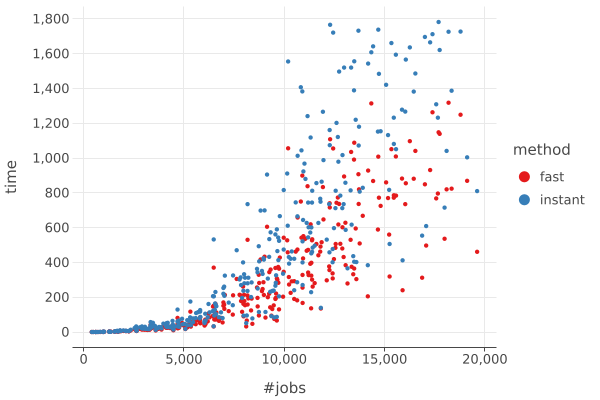
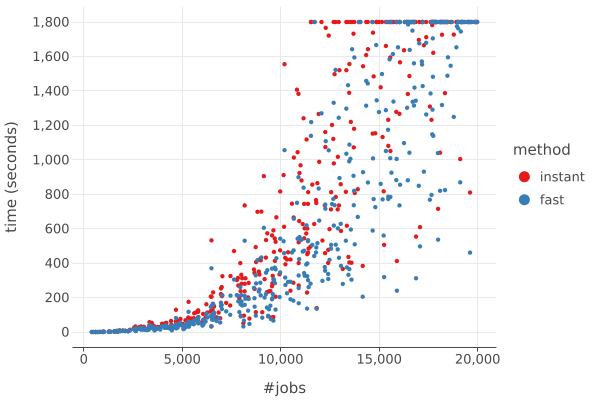
fix units in extra job experiments

diff --git a/src/main/kotlin/experiments/JobQuery.kt b/src/main/kotlin/experiments/JobQuery.kt
@@ -24,7 +24,8 @@ fun reconfigurations() {
 	val numJobsToTimeOutsFast = mutableListOf<Int>()
 	val numJobsToTimeOutsInstant = mutableListOf<Int>()
 
-	val prefix = "threaded-"
+	//val prefix = "threaded-"
+	val prefix = ""
 	val data = run {
 		val caseColumn = mutableListOf<Int>()
 		val jobsColumn = mutableListOf<Int>()
@@ -121,14 +122,15 @@ fun reconfigurations() {
 //			y.axis.max = 60
 //		}
 //	}.save("v3/${prefix}jobs distribution.png")
-//	data.shuffle().groupBy("method").plot {
-//		points {
-//			x("#jobs")
-//			y("time")
-//			color("method")
-//			size = 2.0
-//		}
-//	}.save("v3/${prefix}jobs vs time.png")
+	data.shuffle().groupBy("method").plot {
+		points {
+			x("#jobs")
+			y("time")
+			y.axis.name = "time (seconds)"
+			color("method")
+			size = 2.0
+		}
+	}.save("v3/${prefix}jobs vs time.png")
 //	data.shuffle().groupBy("method").plot {
 //		points {
 //			x("#jobs")
@@ -147,28 +149,29 @@ fun reconfigurations() {
 //			y.axis.min = 1
 //		}
 //	}.save("v3/${prefix}jobs vs constraints.png")
-//	data.shuffle().groupBy("method").plot {
-//		points {
-//			x("#jobs")
-//			y("sqrt(time)")
-//			color("method")
-//			size = 2.0
-//		}
-//	}.save("v3/${prefix}jobs vs sqrt time.png")
+	data.shuffle().groupBy("method").plot {
+		points {
+			x("#jobs")
+			y("sqrt(time)")
+			y.axis.name = "sqrt(time) in seconds"
+			color("method")
+			size = 2.0
+		}
+	}.save("v3/${prefix}jobs vs sqrt time.png")
 //	data.filterBy("timed out").plot {
 //		countPlot("method") {
 //			y.axis.name = "#time outs"
 //		}
 //	}.save("v3/${prefix}method timeout.png")
-	data.filterBy("timed out").groupBy("method").plot {
-		histogram("#jobs", binsOption = BinsOption.byWidth(2000.0)) {
-			x.axis.min = 0
-			x.axis.max = 20000
-			y.axis.min = 0
-			y.axis.max = 60
-			y.axis.name = "#time-outs"
-		}
-	}.save("v3/${prefix}method jobs timeout.png")
+//	data.filterBy("timed out").groupBy("method").plot {
+//		histogram("#jobs", binsOption = BinsOption.byWidth(2000.0)) {
+//			x.axis.min = 0
+//			x.axis.max = 20000
+//			y.axis.min = 0
+//			y.axis.max = 60
+//			y.axis.name = "#time-outs"
+//		}
+//	}.save("v3/${prefix}method jobs timeout.png")
 
 	val massJobsToTimeOutsFast = IntArray(numJobsToTimeOutsFast.size)
 	val massJobsToTimeOutsInstant = IntArray(numJobsToTimeOutsInstant.size)
@@ -183,15 +186,15 @@ fun reconfigurations() {
 		"method" to List(numJobsToTimeOutsInstant.size) { "instant" } + List(numJobsToTimeOutsFast.size) { "fast" },
 		"#timeouts" to (massJobsToTimeOutsInstant + massJobsToTimeOutsFast).toList()
 	)
-	massData.groupBy("method").plot {
-		line {
-			x("#jobs")
-			y("#timeouts")
-			color("method")
-			x.axis.name = "X: the number of jobs"
-			y.axis.name = "#time-outs for at most X jobs"
-		}
-	}.save("v3/${prefix}jobs vs timeouts.png")
+//	massData.groupBy("method").plot {
+//		line {
+//			x("#jobs")
+//			y("#timeouts")
+//			color("method")
+//			x.axis.name = "X: the number of jobs"
+//			y.axis.name = "#time-outs for at most X jobs"
+//		}
+//	}.save("v3/${prefix}jobs vs timeouts.png")
 }
 
 fun alreadySchedulable() {
